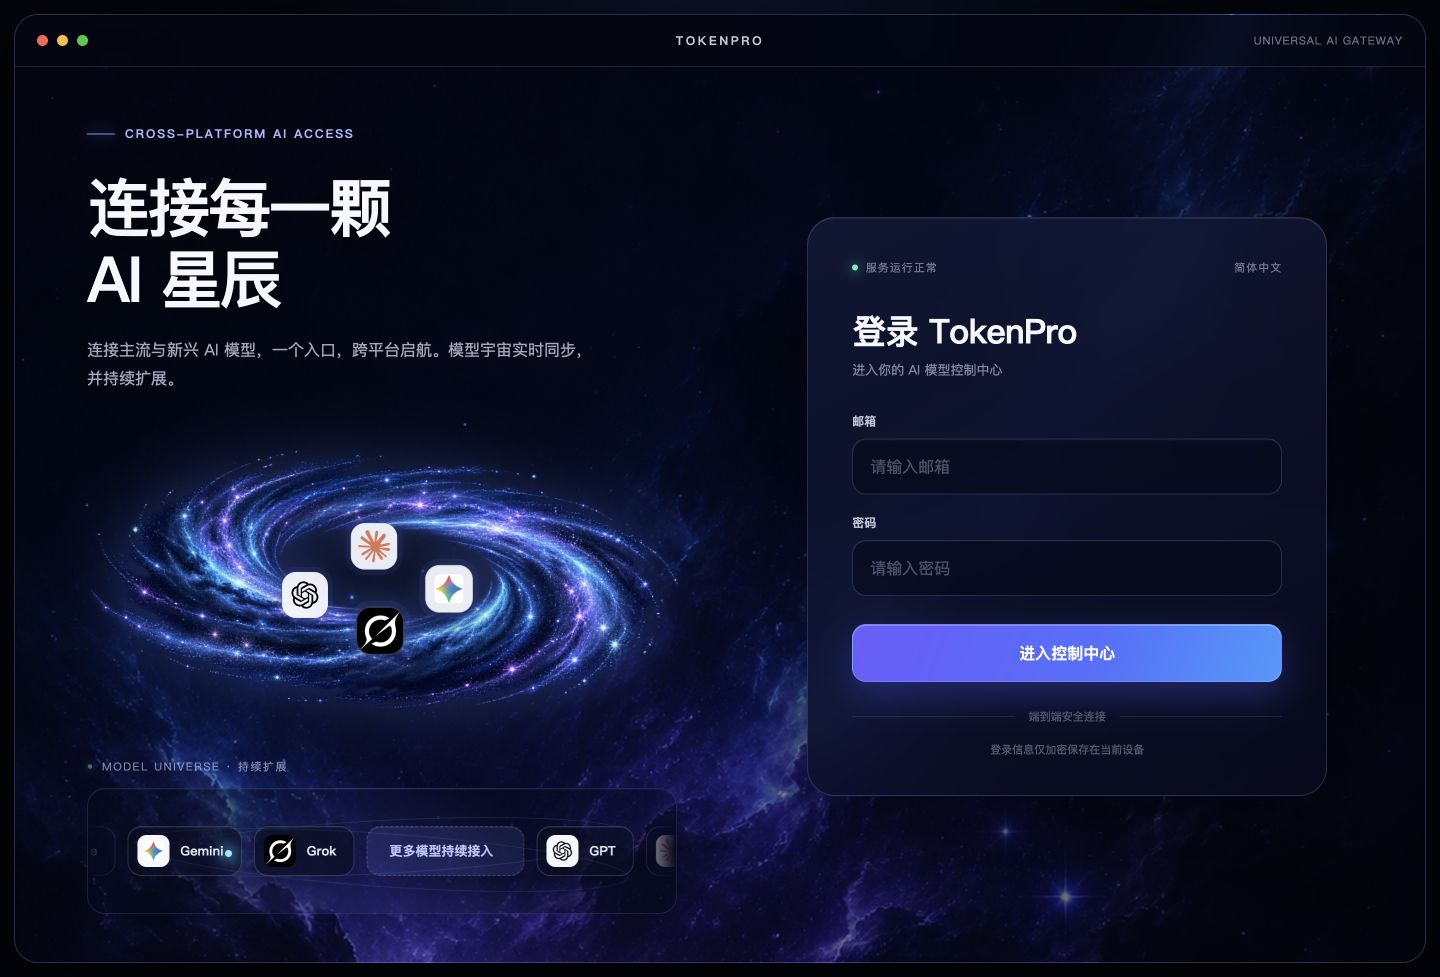
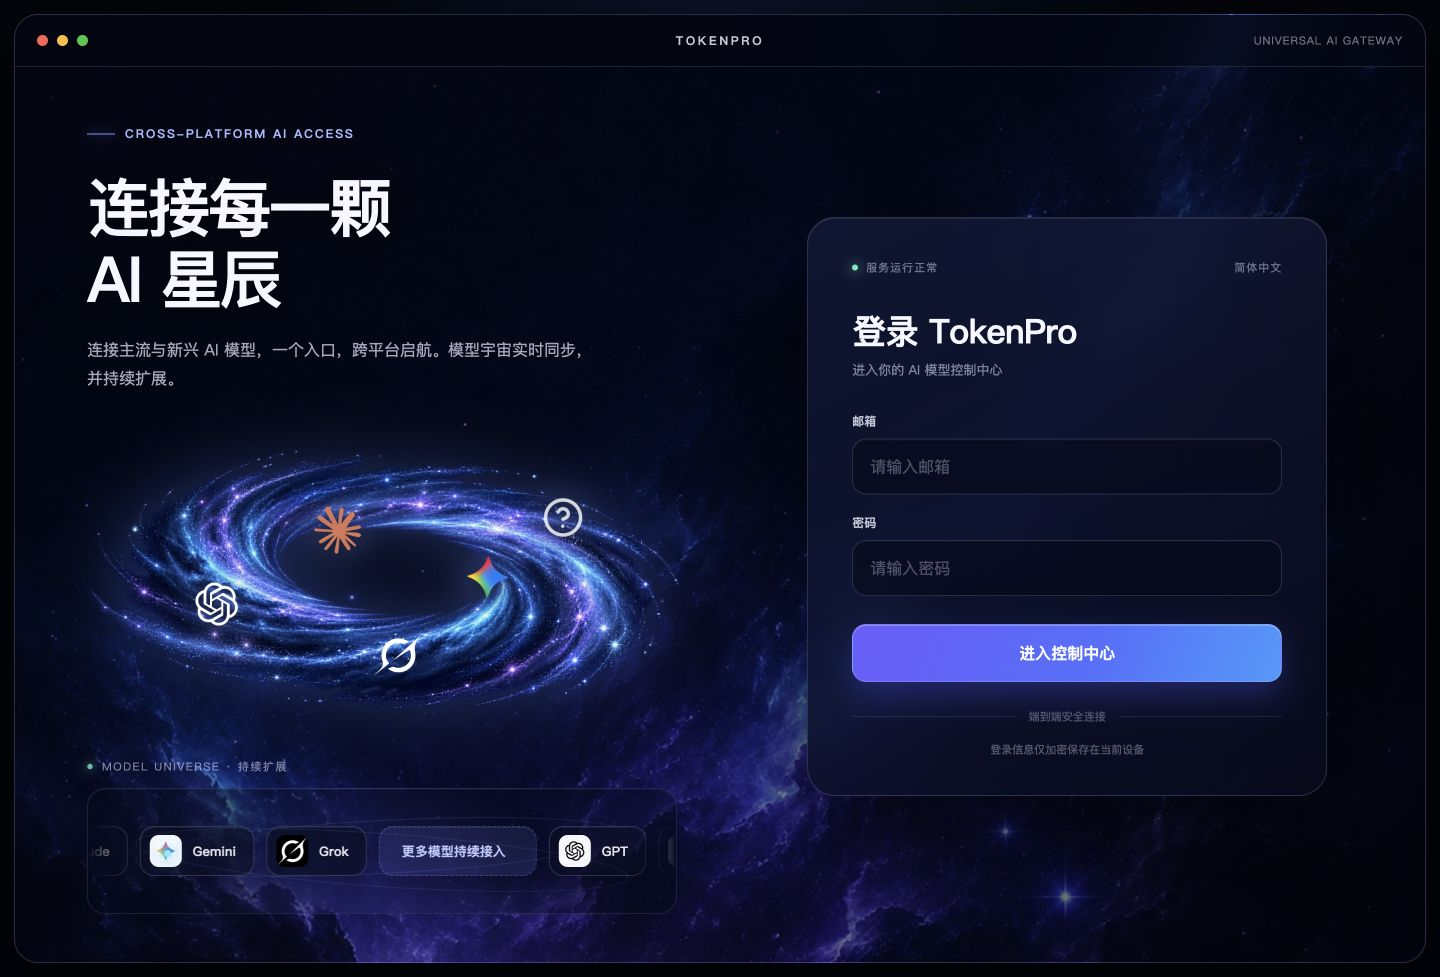
Scatter transparent model marks

Changed region(s): [[0.125, 0.522, 0.375, 0.7062], [0.0938, 0.8291, 0.4688, 0.8905], [0.375, 0.4913, 0.4062, 0.5527]]

diff --git a/design-preview/index.html b/design-preview/index.html
@@ -108,21 +108,17 @@
     .vortex-models { position: absolute; inset: 0; }
     .vortex-model {
       position: absolute;
-      width: 46px;
-      height: 46px;
-      padding: 8px;
-      border: 1px solid rgba(210,220,255,.26);
-      border-radius: 14px;
+      width: 44px;
+      height: 44px;
       object-fit: contain;
-      background: rgba(248,250,255,.94);
-      box-shadow: 0 0 0 5px rgba(75,94,196,.10), 0 10px 30px rgba(0,0,0,.35), 0 0 26px rgba(94,132,255,.22);
-      backdrop-filter: blur(14px);
+      filter: drop-shadow(0 5px 9px rgba(0,0,0,.72)) drop-shadow(0 0 12px rgba(115,151,255,.5));
       animation: modelFloat 4.8s ease-in-out infinite;
     }
-    .vortex-model.gpt { left: 34%; top: 48%; }
-    .vortex-model.claude { left: 45%; top: 35%; padding: 6px; animation-delay: -.9s; }
-    .vortex-model.gemini { left: 57%; top: 48%; animation-delay: -1.8s; }
-    .vortex-model.grok { left: 46%; top: 60%; padding: 0; background: #000; animation-delay: -2.7s; }
+    .vortex-model.gpt { left: 20%; top: 51%; filter: invert(1) drop-shadow(0 5px 9px rgba(0,0,0,.72)) drop-shadow(0 0 12px rgba(115,151,255,.5)); }
+    .vortex-model.claude { left: 39%; top: 30%; width: 47px; height: 47px; animation-delay: -.9s; }
+    .vortex-model.gemini { left: 63%; top: 45%; width: 42px; height: 42px; animation-delay: -1.8s; }
+    .vortex-model.grok { left: 48%; top: 67%; width: 47px; height: 47px; mix-blend-mode: screen; filter: none; animation-delay: -2.7s; }
+    .vortex-model.unknown { left: 75%; top: 29%; width: 40px; height: 40px; opacity: .82; filter: invert(1) drop-shadow(0 5px 9px rgba(0,0,0,.72)) drop-shadow(0 0 15px rgba(136,163,255,.62)); animation-delay: -3.5s; }
     .orbit-copy { margin-top: 0; width: min(590px,100%); }
     .orbit-label { display: flex; align-items: center; gap: 9px; color: rgba(205,215,248,.58); font-size: 11px; letter-spacing: .14em; }
     .orbit-label::before { content: ""; width: 6px; height: 6px; border-radius: 50%; background: #6ff0ca; box-shadow: 0 0 12px #6ff0ca; animation: livePulse 2s ease-in-out infinite; }
@@ -163,7 +159,7 @@
     @keyframes requestFlow { 0% { left: -8px; opacity: 0; } 12%,82% { opacity: 1; } 100% { left: calc(100% + 8px); opacity: 0; } }
     @keyframes livePulse { 50% { opacity: .4; transform: scale(.72); } }
     @keyframes vortexBreath { 50% { opacity: .98; transform: scale(1.025) rotate(.7deg); filter: drop-shadow(0 0 32px rgba(92,132,255,.36)); } }
-    @keyframes modelFloat { 50% { transform: translateY(-7px) scale(1.04); box-shadow: 0 0 0 6px rgba(75,94,196,.13), 0 14px 36px rgba(0,0,0,.38), 0 0 34px rgba(99,146,255,.34); } }
+    @keyframes modelFloat { 50% { transform: translate(5px,-8px) rotate(3deg) scale(1.06); } }
     .login-side { display: grid; place-items: center; padding: 42px 58px 58px 18px; }
     .login-card {
       width: min(520px, 100%);
@@ -394,8 +390,9 @@
           <div class="vortex-models">
             <img class="vortex-model gpt" src="../Resources/OpenAIBlossomOfficial.svg" alt="GPT" title="GPT" />
             <img class="vortex-model claude" src="../Resources/ClaudeSparkOfficial.svg" alt="Claude" title="Claude" />
-            <img class="vortex-model gemini" src="../Resources/GeminiOfficial.svg" alt="Gemini" title="Gemini" />
+            <img class="vortex-model gemini" src="../Resources/GeminiSparkTransparent.png" alt="Gemini" title="Gemini" />
             <img class="vortex-model grok" src="../Resources/GrokOfficial.png" alt="Grok" title="Grok" />
+            <img class="vortex-model unknown" src="../Resources/UnknownModelLucide.svg" alt="即将接入的未知模型" title="更多模型即将接入" />
           </div>
         </div>
         <div class="orbit-copy">

diff --git a/design-qa.md b/design-qa.md
@@ -21,13 +21,14 @@
 - [Resolved P1] The login hero now presents GPT, Claude, Gemini, and Grok as a continuously moving sample of the model universe, followed by “更多模型持续接入” so the interface does not imply a four-model limit.
 - [Resolved P1] The empty hero region now contains a generated transparent blue-violet galaxy vortex with GPT, Claude, Gemini, and Grok marks floating inside its center; the lower model marquee remains in place.
 - [Resolved P2] The login hero label “Codex” was changed to “GPT” in both the vortex and looping model strip. Dashboard client names remain aligned with the supplied post-login reference.
+- [Resolved P2] Vortex model marks no longer use square cards or borders. Their positions, sizes, and animation phases are staggered across the spiral, and a fifth question-mark mark represents future providers.
 
 **Required fidelity surfaces**
 
 - Fonts and typography: strong 70 px Chinese display headline, compact 34 px login title, restrained uppercase supporting labels, and clear field hierarchy.
 - Spacing and layout rhythm: balanced two-column composition, 52 px title bar, 56 px fields, 58 px primary action, consistent 14/24/28 px radii.
 - Colors and visual tokens: near-black navy base, indigo/violet nebula, cyan highlights, white text, and a blue-violet primary action.
-- Image quality and asset fidelity: 1122 × 1402 generated cosmos artwork is used at cover scale. The transparent 1774 × 887 vortex asset is placed at native aspect ratio without cropping. OpenAI, Claude, Gemini, and Grok marks come from official sources and retain their native proportions. Interface icons use the existing TokenPro assets and Lucide.
+- Image quality and asset fidelity: 1122 × 1402 generated cosmos artwork is used at cover scale. The transparent 1774 × 887 vortex asset is placed at native aspect ratio without cropping. OpenAI, Claude, Gemini, and Grok marks come from official sources and retain their native proportions; Gemini uses a transparent extracted sparkle. The future-provider mark uses Lucide Circle Question Mark.
 - Copy and content: all TEAMAO-specific wording and unsupported login methods were removed. TokenPro copy reflects email/password authentication.
 
 **Full-view comparison evidence**
@@ -48,7 +49,8 @@ The official marks, input borders, login card, title bar, and CTA were checked a
 - The account page contains only the current balance and logout action.
 - The TokenPro app mark uses the approved simplified orbital-star icon at desktop, installer, sidebar, and navigation sizes.
 - The model universe marquee loops without a visible jump, the request pulse travels across the orbit, and reduced-motion mode disables both animations.
-- The vortex glow breathes slowly and all four model marks float independently; reduced-motion mode also freezes these effects.
+- The vortex glow breathes slowly and the model marks float independently; reduced-motion mode also freezes these effects.
+- Five marks now float independently at varied points across the vortex, with no visible icon backplates.
 - Logout returns to the login view.
 - Page reload restores the empty login state.
 - Browser console contains no warnings or errors.
